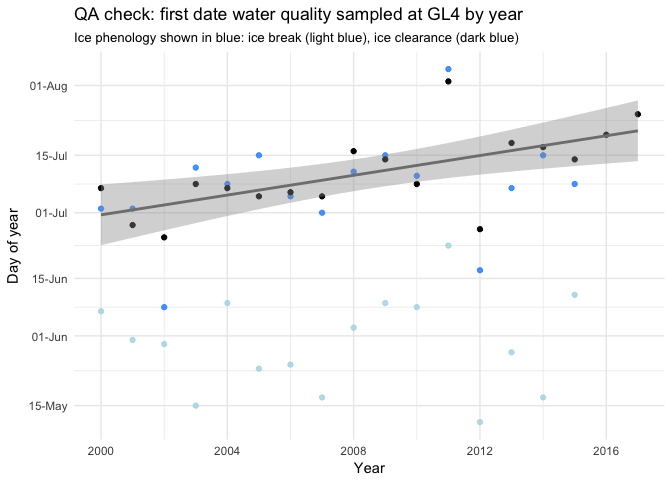
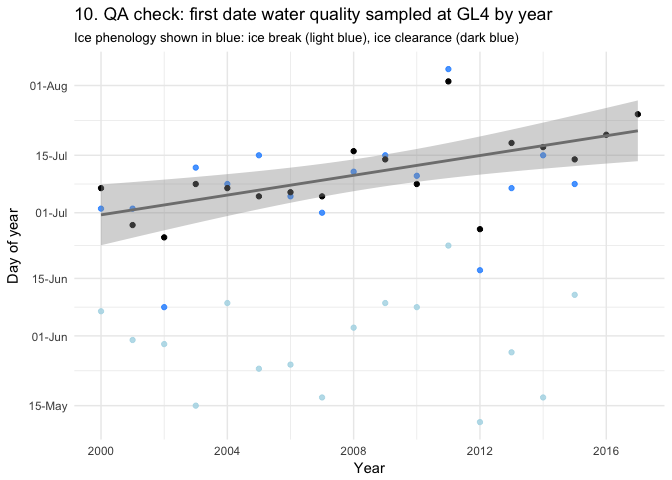
Change symbology scheme and number figures (per CR's suggestions)

Changed region(s): [[0.0938, 0.0, 0.8125, 0.0625]]

diff --git a/GL4_WQ_waterchem_datamunging.md b/GL4_WQ_waterchem_datamunging.md
@@ -1,7 +1,7 @@
 Water quality and chemistry data munging for Green Lake 4
 ================
 CTW
-2018-03-14
+2018-03-17
 
 Script purpose
 --------------
@@ -246,9 +246,13 @@ Showing the ice phenology data availability via raw data values is easy because 
 
 ![](GL4_WQ_waterchem_datamunging_files/figure-markdown_github/data%20availablity%20for%20water%20chem-1.png)![](GL4_WQ_waterchem_datamunging_files/figure-markdown_github/data%20availablity%20for%20water%20chem-2.png)![](GL4_WQ_waterchem_datamunging_files/figure-markdown_github/data%20availablity%20for%20water%20chem-3.png)
 
+This figure shows just the "core" depths (0, 3 and 9). Symobology and coloring adjusted per CR's suggestion (compare with symbology in Fig. 4).
+
+![](GL4_WQ_waterchem_datamunging_files/figure-markdown_github/McKnight%20lake%20chemistry%20core-1.png)
+
 **Green Lake 4 water quality data availability**
 
-**QA note**: There really are that many samples for outlet chlorophyll-a in 2007.
+**QA note**: There really are that many samples for outlet chlorophyll-a in 2007. Chris Ray suggests remaking this as broken plot (see example here: <https://joergsteinkamp.wordpress.com/2016/01/22/broken-axis-with-ggplot2/>). If do this, will need to add code to automate detecting outliers and breaking y-axis as necessary.
 
 ![](GL4_WQ_waterchem_datamunging_files/figure-markdown_github/water%20quality%20data%20availability-1.png)
 
